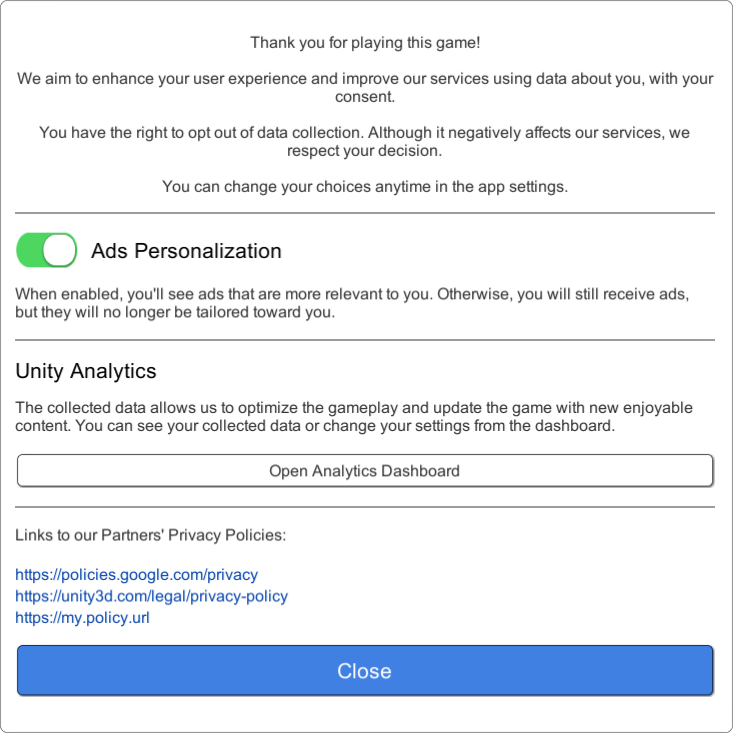
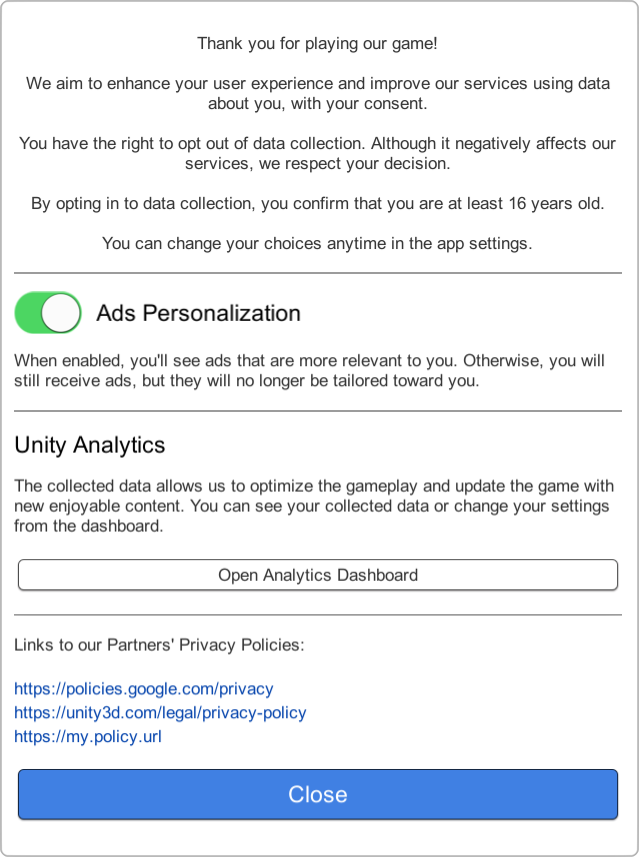
- Added another paragraph to GDPRConsentDialog stating that by opting in to data collection, user confirms that they are at least 16 years old - Added optional initialConsentValue parameter to AddSectionWithToggle

diff --git a/Plugins/SimpleGDPRConsent/Scripts/Dialogs/GDPRConsentDialog.cs b/Plugins/SimpleGDPRConsent/Scripts/Dialogs/GDPRConsentDialog.cs
@@ -9,14 +9,16 @@ public class GDPRConsentDialog : IGDPRDialog
 		public readonly string description;
 		public readonly string title;
 		public readonly string identifier;
+		public readonly bool initialConsentValue;
 		public readonly string buttonLabel;
 		public readonly SimpleGDPR.ButtonClickDelegate onButtonClicked;
 
-		public Section( string description, string title, string identifier, string buttonLabel, SimpleGDPR.ButtonClickDelegate onButtonClicked )
+		public Section( string description, string title, string identifier, bool initialConsentValue, string buttonLabel, SimpleGDPR.ButtonClickDelegate onButtonClicked )
 		{
 			this.description = description;
 			this.title = title;
 			this.identifier = identifier;
+			this.initialConsentValue = initialConsentValue;
 			this.buttonLabel = buttonLabel;
 			this.onButtonClicked = onButtonClicked;
 		}
@@ -37,7 +39,7 @@ public class GDPRConsentDialog : IGDPRDialog
 		return this;
 	}
 
-	public GDPRConsentDialog AddSectionWithToggle( string identifier, string title, string description = null )
+	public GDPRConsentDialog AddSectionWithToggle( string identifier, string title, string description = null, bool initialConsentValue = true )
 	{
 		if( string.IsNullOrEmpty( identifier ) )
 		{
@@ -45,7 +47,7 @@ public class GDPRConsentDialog : IGDPRDialog
 			return this;
 		}
 
-		return AddSection( new Section( description, title, identifier, null, null ) );
+		return AddSection( new Section( description, title, identifier, initialConsentValue, null, null ) );
 	}
 
 	public GDPRConsentDialog AddSectionWithButton( SimpleGDPR.ButtonClickDelegate onButtonClicked, string title, string description = null, string buttonLabel = null )
@@ -56,7 +58,7 @@ public class GDPRConsentDialog : IGDPRDialog
 			return this;
 		}
 
-		return AddSection( new Section( description, title, null, buttonLabel, onButtonClicked ) );
+		return AddSection( new Section( description, title, null, true, buttonLabel, onButtonClicked ) );
 	}
 
 	public GDPRConsentDialog AddPrivacyPolicy( string link )

diff --git a/Plugins/SimpleGDPRConsent/Scripts/UI/GDPRSection.cs b/Plugins/SimpleGDPRConsent/Scripts/UI/GDPRSection.cs
@@ -55,7 +55,12 @@ namespace SimpleGDPRConsent
 			if( !string.IsNullOrEmpty( section.identifier ) )
 			{
 				toggle.gameObject.SetActive( true );
-				toggleHolder.Value = GDPRConsentCanvas.GetConsentState( section.identifier ) != SimpleGDPR.ConsentState.No;
+
+				SimpleGDPR.ConsentState consentState = GDPRConsentCanvas.GetConsentState( section.identifier );
+				if( consentState == SimpleGDPR.ConsentState.Unknown )
+					toggleHolder.Value = section.initialConsentValue;
+				else
+					toggleHolder.Value = consentState != SimpleGDPR.ConsentState.No;
 			}
 			else
 				toggle.gameObject.SetActive( false );

diff --git a/README.md b/README.md
@@ -49,7 +49,7 @@ This dialog prompts the user to accept your *Terms of Service* and/or *Privacy P
 This dialog consists of a number of sections and a list of privacy policies that explain how the user's data is collected and used. Each section of the dialog asks for a different event's consent (e.g. ads personalization, analytics data collection). There are two types of sections: sections with a toggle and sections with a button. For SDKs that handle their consents in their own way, a button can be used (e.g. Unity Analytics handles the consent via a webpage). Otherwise, it is easier to manage a consent via a toggle.
 
 - `new GDPRConsentDialog()`: creates a new instance of this dialog
-- `AddSectionWithToggle( string identifier, string title, string description = null )`: adds a section with a toggle to the dialog. Here, **identifier** is a unique identifier for the particular event you are asking the consent for (e.g. you can use "*Ads*" for ads personalization). After the dialog is closed, you can pass the same *identifier* to the *SimpleGDPR.GetConsentState* function to check whether or not you have consent to collect user's data for that event
+- `AddSectionWithToggle( string identifier, string title, string description = null, bool initialConsentValue = true )`: adds a section with a toggle to the dialog. Here, **identifier** is a unique identifier for the particular event you are asking the consent for (e.g. you can use "*Ads*" for ads personalization). After the dialog is closed, you can pass the same *identifier* to the *SimpleGDPR.GetConsentState* function to check whether or not you have consent to collect user's data for that event
 - `AddSectionWithButton( ButtonClickDelegate onButtonClicked, string title, string description = null, string buttonLabel = null )`: adds a section with a button to the dialog. When the button is clicked, **onButtonClicked** is invoked (*ButtonClickDelegate* takes no parameters)
 - `AddPrivacyPolicy( string link )`: adds a privacy policy to the list of privacy policies
 - `AddPrivacyPolicies( params string[] links )`: adds a number of privacy policies to the list of privacy policies
